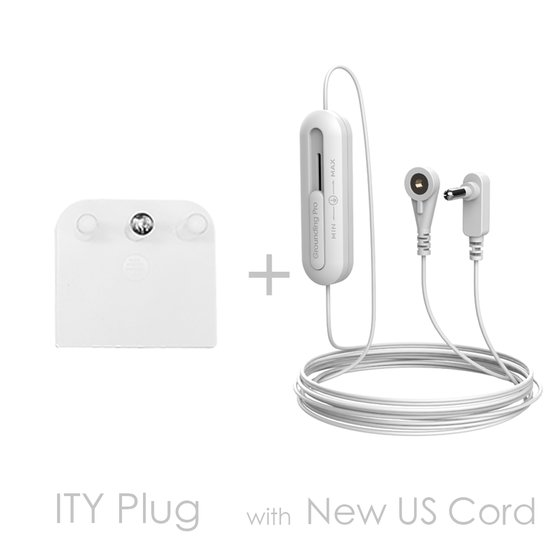
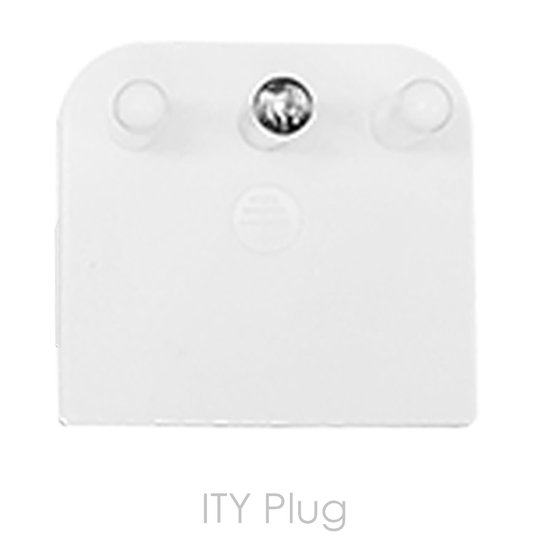
Kit v2: plug section uses bare regional plugs (no cord), tester/2.jpg -> ea6d1130 Tester Pen

diff --git a/grounding-kit.html b/grounding-kit.html
@@ -2942,12 +2942,12 @@
                 <div class="gb-category-carousel">
                                             <div class="gb-carousel" id="plugCarousel">
                             
-                            <img src="images/products/kit_plug/1.jpg" alt="EU Plug + New US Cord" class="gb-carousel-img active">
-                            <img src="images/products/kit_plug/2.jpg" alt="AU Plug + New US Cord" class="gb-carousel-img">
-                            <img src="images/products/kit_plug/3.jpg" alt="UK Plug + New US Cord" class="gb-carousel-img">
-                            <img src="images/products/kit_plug/4.jpg" alt="ITY Plug + New US Cord" class="gb-carousel-img">
-                            <img src="images/products/kit_plug/5.jpg" alt="CH Plug + New US Cord" class="gb-carousel-img">
-                            <img src="images/products/kit_plug/6.jpg" alt="ISR Plug + New US Cord" class="gb-carousel-img">
+                            <img src="images/products/kit_plug/1.jpg" alt="EU Plug" class="gb-carousel-img active">
+                            <img src="images/products/kit_plug/2.jpg" alt="AU Plug" class="gb-carousel-img">
+                            <img src="images/products/kit_plug/3.jpg" alt="UK Plug" class="gb-carousel-img">
+                            <img src="images/products/kit_plug/4.jpg" alt="ITY Plug" class="gb-carousel-img">
+                            <img src="images/products/kit_plug/5.jpg" alt="CH Plug" class="gb-carousel-img">
+                            <img src="images/products/kit_plug/6.jpg" alt="ISR Plug" class="gb-carousel-img">
                             <div class="gb-carousel-dots">
                             
                             <button class="gb-carousel-dot active" onclick="goGB('plugCarousel',0)"></button>
@@ -2960,7 +2960,7 @@
                         </div>
                 </div>
                 <div class="gb-category-content">
-                    <h3>Grounding Plug</h3><p>Region-specific plugs compatible with our New US Cord series. Match your target market with locally certified connectors — designed for seamless integration with our grounding system.</p><ul class="gb-features"><li>6 region variants: EU, AU, UK, ITY, CH, ISR</li><li>Each plug paired with New US Cord ready-to-ship</li><li>Local safety certification compatible</li><li>OEM plug type & labeling available</li></ul><div class="gb-cta-row"><a href="get-price.html" class="btn btn-primary">Request Quote</a></div>
+                    <h3>Grounding Plug</h3><p>Region-specific bare plugs for global market compatibility. Match your target market with locally certified connectors — designed for seamless integration with our grounding system.</p><ul class="gb-features"><li>6 region variants: EU, AU, UK, ITY, CH, ISR</li><li>Available in 6 region variants for worldwide compatibility</li><li>Local safety certification compatible</li><li>OEM plug type & labeling available</li></ul><div class="gb-cta-row"><a href="get-price.html" class="btn btn-primary">Request Quote</a></div>
                 </div>
             </div>
         </div>
@@ -2972,7 +2972,7 @@
                                             <div class="gb-carousel" id="testerCarousel">
                             
                             <img src="images/products/kit_tester/1.jpg" alt="Tester Pen" class="gb-carousel-img active">
-                            <img src="images/products/kit_tester/2.jpg" alt="Conductive Tester" class="gb-carousel-img">
+                            <img src="images/products/kit_tester/2.jpg" alt="Tester Pen Conductive" class="gb-carousel-img">
                             <img src="images/products/kit_tester/3.jpg" alt="EU Outlet Checker" class="gb-carousel-img">
                             <img src="images/products/kit_tester/4.jpg" alt="US Outlet Checker" class="gb-carousel-img">
                             <img src="images/products/kit_tester/5.jpg" alt="UK Outlet Checker" class="gb-carousel-img">
@@ -2987,7 +2987,7 @@
                         </div>
                 </div>
                 <div class="gb-category-content">
-                    <h3>Conductive Tester</h3><p>Verify your grounding connection works — every time. From handheld continuity pens to region-specific outlet checkers, ensure your grounding products are performing correctly before each use.</p><ul class="gb-features"><li>5 variants: Tester Pen, Conductive Tester, EU/US/UK Outlet Checker</li><li>Instant continuity verification</li><li>Region-specific outlet compatibility check</li><li>Battery-powered, portable, easy to use</li></ul><div class="gb-cta-row"><a href="get-price.html" class="btn btn-primary">Request Quote</a></div>
+                    <h3>Conductive Tester</h3><p>Verify your grounding connection works — every time. From handheld continuity pens and conductive testers to region-specific outlet checkers, ensure your grounding products are performing correctly before each use.</p><ul class="gb-features"><li>5 variants: Tester Pen, Conductive Tester, EU/US/UK Outlet Checker</li><li>Instant continuity verification</li><li>Region-specific outlet compatibility check</li><li>Battery-powered, portable, easy to use</li></ul><div class="gb-cta-row"><a href="get-price.html" class="btn btn-primary">Request Quote</a></div>
                 </div>
             </div>
         </div>

diff --git a/fix_kit_text.js b/fix_kit_text.js
@@ -1,0 +1,57 @@
+var fs = require('fs');
+var h = fs.readFileSync('grounding-kit.html', 'utf8');
+var orig = h;
+
+// Plug section update: alts and content
+var plugAlts = [
+    ['alt="EU Plug + New US Cord"', 'alt="EU Plug"'],
+    ['alt="AU Plug + New US Cord"', 'alt="AU Plug"'],
+    ['alt="UK Plug + New US Cord"', 'alt="UK Plug"'],
+    ['alt="ITY Plug + New US Cord"', 'alt="ITY Plug"'],
+    ['alt="CH Plug + New US Cord"', 'alt="CH Plug"'],
+    ['alt="ISR Plug + New US Cord"', 'alt="ISR Plug"']
+];
+plugAlts.forEach(function(r) {
+    var n = (h.match(new RegExp(r[0].replace(/[.*+?^${}()|[\]\\]/g, '\\$&'), 'g')) || []).length;
+    if (n) { h = h.split(r[0]).join(r[1]); console.log('Replaced alt:', r[0].slice(0, 50)); }
+});
+
+// Plug section description update
+var oldPlugDesc = '<p>Region-specific plugs compatible with our New US Cord series. Match your target market with locally certified connectors — designed for seamless integration with our grounding system.</p>';
+var newPlugDesc = '<p>Region-specific bare plugs for global market compatibility. Match your target market with locally certified connectors — designed for seamless integration with our grounding system.</p>';
+if (h.indexOf(oldPlugDesc) !== -1) {
+    h = h.replace(oldPlugDesc, newPlugDesc);
+    console.log('Plug description updated');
+}
+
+// Plug features list
+var oldPlugFeat = '<li>Each plug paired with New US Cord ready-to-ship</li>';
+var newPlugFeat = '<li>Available in 6 region variants for worldwide compatibility</li>';
+if (h.indexOf(oldPlugFeat) !== -1) {
+    h = h.replace(oldPlugFeat, newPlugFeat);
+    console.log('Plug features updated');
+}
+
+// Tester section: alts and update 2.jpg
+var oldTestAlt2 = 'alt="Conductive Tester"';
+var newTestAlt2 = 'alt="Tester Pen Conductive"';
+if (h.indexOf(oldTestAlt2) !== -1) {
+    h = h.split(oldTestAlt2).join(newTestAlt2);
+    console.log('Tester 2 alt updated (Conductive Tester -> Tester Pen Conductive)');
+}
+
+// Tester section description update (highlight Tester Pen)
+var oldTesterDesc = '<p>Verify your grounding connection works — every time. From handheld continuity pens to region-specific outlet checkers, ensure your grounding products are performing correctly before each use.</p>';
+var newTesterDesc = '<p>Verify your grounding connection works — every time. From handheld continuity pens and conductive testers to region-specific outlet checkers, ensure your grounding products are performing correctly before each use.</p>';
+if (h.indexOf(oldTesterDesc) !== -1) {
+    h = h.replace(oldTesterDesc, newTesterDesc);
+    console.log('Tester description updated');
+}
+
+fs.writeFileSync('grounding-kit.html', h, 'utf8');
+console.log('\nChanged chars:', h.length - orig.length);
+
+// Verify
+console.log('"+ New US Cord" remaining:', (h.match(/\+ New US Cord/g) || []).length, '(expect 0)');
+console.log('Plug alts:', (h.match(/alt="[A-Z]{2,3} Plug"/g) || []).length, '(expect 6)');
+console.log('Tester alt:', h.indexOf('alt="Tester Pen Conductive"') !== -1, '(expect true)');

diff --git a/list_testerpen.js b/list_testerpen.js
@@ -1,0 +1,17 @@
+var fs = require('fs');
+var path = 'C:/Users/18574/Desktop/EARTHING/接地线资料/测试笔';
+function list(d) {
+    if (!fs.existsSync(d)) {
+        console.log('NOT EXISTS:', d);
+        return;
+    }
+    var items = fs.readdirSync(d, {withFileTypes: true});
+    items.forEach(function(it) {
+        if (it.isFile()) {
+            var sz = fs.statSync(d + '/' + it.name).size;
+            console.log(it.name + ' (' + sz.toLocaleString() + 'b)');
+        }
+    });
+}
+console.log('=== 测试笔 ===');
+list(path);

diff --git a/list_plugs3.js b/list_plugs3.js
@@ -1,0 +1,13 @@
+var fs = require('fs');
+var path = 'C:/Users/18574/Desktop/EARTHING/接地线资料/plugs';
+function list(d) {
+    var items = fs.readdirSync(d, {withFileTypes: true});
+    items.forEach(function(it) {
+        if (it.isFile()) {
+            var sz = fs.statSync(d + '/' + it.name).size;
+            console.log(it.name + ' (' + sz.toLocaleString() + 'b)');
+        }
+    });
+}
+console.log('=== plugs root *.png ===');
+list(path);

diff --git a/resize_kit_v2.py b/resize_kit_v2.py
@@ -1,0 +1,63 @@
+#!/usr/bin/env python3
+"""Update kit_plug (use bare plugs, not cord+plug combo)
+Update kit_tester/2.jpg to use 测试笔/ea6d1130...jpg
+"""
+import os
+from PIL import Image
+
+WD = r'C:\Users\18574\.qclaw\workspace\earthinghealth-website'
+SRC = r'C:\Users\18574\Desktop\EARTHING\接地线资料\plugs'
+TESTER_DIR = r'C:\Users\18574\Desktop\EARTHING\接地线资料\测试笔'
+SIZE = 550
+
+# Plugs - 6 bare plugs from plugs root
+plug_specs = [
+    ('EU插头.png', '1.jpg'),
+    ('AU插头.png', '2.jpg'),
+    ('UK插头.png', '3.jpg'),
+    ('ITY插头.png', '4.jpg'),
+    ('CH插头.png', '5.jpg'),
+    ('ISR插头.png', '6.jpg'),
+]
+
+# Tester - update 2.jpg only
+tester_2 = (TESTER_DIR + r'\ea6d1130-7beb-4f63-a6e9-03d0eb3d3145.__CR0,0,300,300_PT0_SX300_V1___.jpg',
+            r'C:\Users\18574\.qclaw\workspace\earthinghealth-website\images\products\kit_tester\2.jpg')
+
+def fill_resize(src_path, dst_path, target=SIZE, quality=85):
+    img = Image.open(src_path).convert('RGBA')
+    w, h = img.size
+    if w > h:
+        new_w = h; x = (w - new_w) // 2
+        img = img.crop((x, 0, x + new_w, h))
+    elif h > w:
+        new_h = w; y = (h - new_h) // 2
+        img = img.crop((0, y, w, y + new_h))
+    img = img.resize((target, target), Image.LANCZOS)
+    bg = Image.new('RGB', (target, target), (255, 255, 255))
+    bg.paste(img, (0, 0))
+    bg.save(dst_path, 'JPEG', quality=quality)
+    return os.path.getsize(dst_path)
+
+# Process plugs
+print('=== kit_plug (bare) ===')
+plug_dst_dir = os.path.join(WD, 'images', 'products', 'kit_plug')
+for src_name, dst_name in plug_specs:
+    src = os.path.join(SRC, src_name)
+    dst = os.path.join(plug_dst_dir, dst_name)
+    if not os.path.exists(src):
+        print(f'  MISSING: {src_name}')
+        continue
+    sz = fill_resize(src, dst)
+    print(f'  {src_name} -> {dst_name}: {sz:,}b')
+
+# Process tester/2.jpg
+print('\n=== kit_tester/2.jpg ===')
+src, dst = tester_2
+if os.path.exists(src):
+    sz = fill_resize(src, dst)
+    print(f'  ea6d1130 -> 2.jpg: {sz:,}b')
+else:
+    print('  MISSING:', src)
+
+print('Done!')
